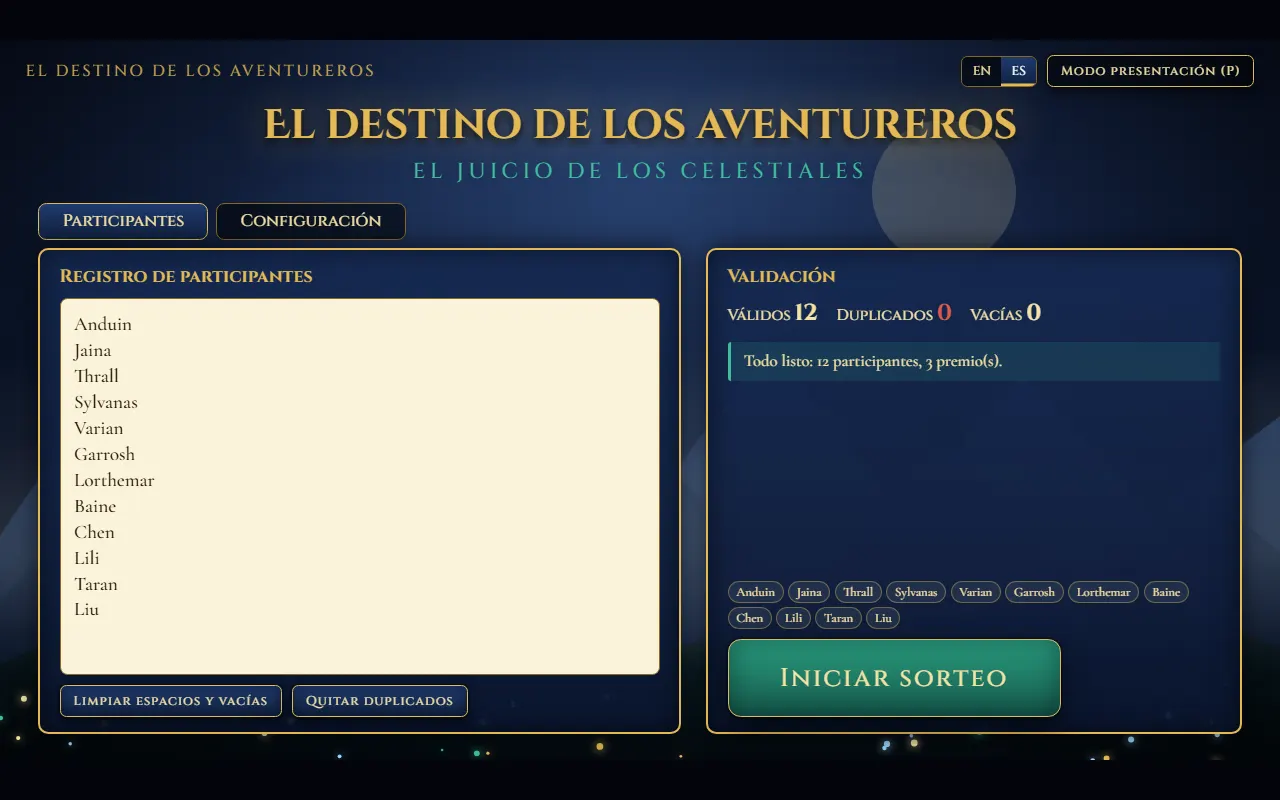
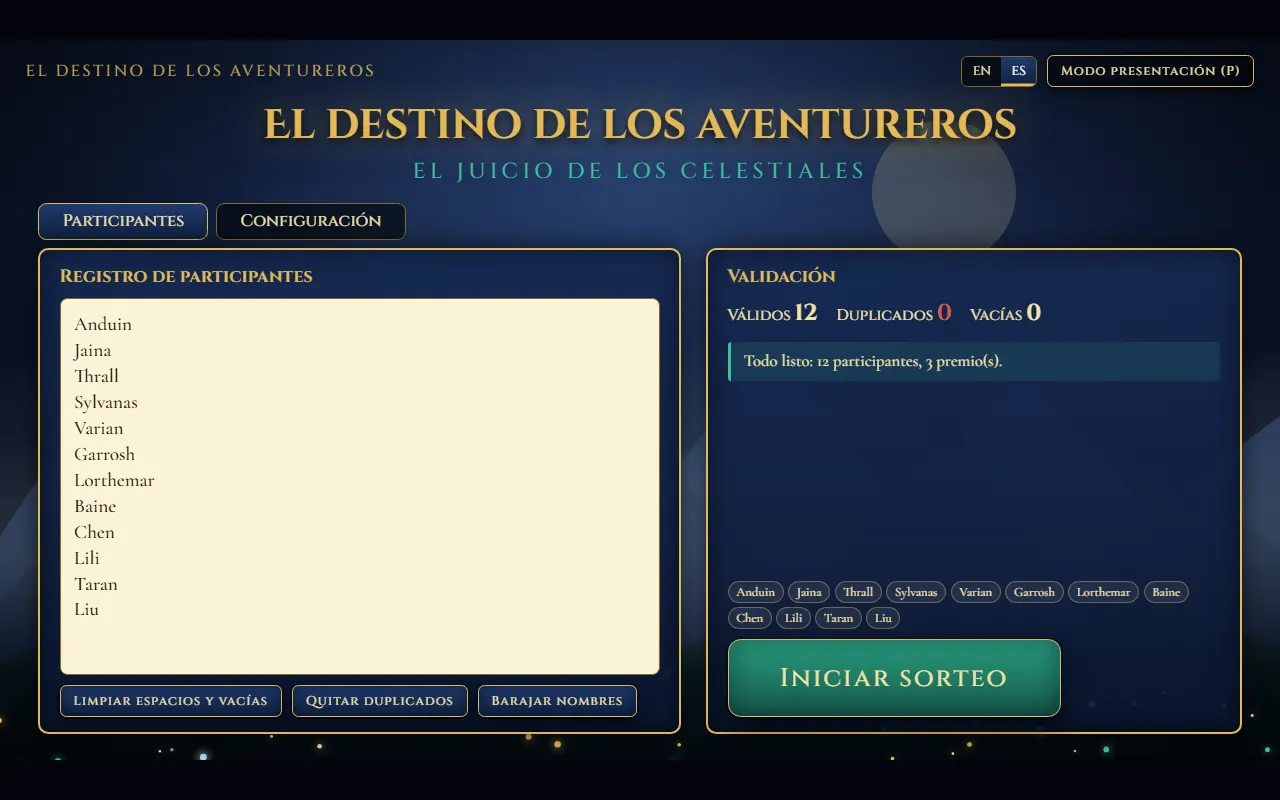
feat: add a Shuffle names button to the participants panel
Randomly reorders the textarea list with the secure shuffle (same one
the engine applies at start). New i18n keys in both locales; the
participants screenshots are retaken.

Changed region(s): [[0.375, 0.8438, 0.5, 0.9375], [0.6875, 0.9062, 0.7188, 0.9375]]

diff --git a/index.html b/index.html
@@ -331,6 +331,7 @@ body.pres .ops,body.pres .topbar .ctl{display:none}
         <div class="row">
           <button class="btn small" id="btnClean" data-i18n="admin.people.clean">Trim spaces and empty lines</button>
           <button class="btn small" id="btnDedupe" data-i18n="admin.people.dedupe">Remove duplicates</button>
+          <button class="btn small" id="btnShuffle" data-i18n="admin.people.shuffle" data-i18n-attr="title:admin.people.shuffleHint" title="Randomly reorders the list (the draw shuffles it again when it starts)">Shuffle names</button>
         </div>
         <div class="tw">
           <div class="tw-state"><span class="dot" id="twDotA"></span><span id="twTextA">Twitch: …</span></div>
@@ -801,6 +802,7 @@ function renderAdmin(){
 function renderCfgIfVisible(){ if (!$('paneC').classList.contains('hide')) renderCfg(); else { const c = analyze().valid.length; cfgCheck = Core.validateConfig(cfgDraft, c > 0 ? c : undefined); } }
 namesEl.addEventListener('input', () => { serverErr = null; renderAdmin(); });
 $('btnClean').onclick = () => { namesEl.value = namesEl.value.split(/\r?\n/).map(cleanLine).filter(Boolean).join('\n'); renderAdmin(); };
+$('btnShuffle').onclick = () => { namesEl.value = Core.secureShuffle(namesEl.value.split(/\r?\n/).map(cleanLine).filter(Boolean)).join('\n'); renderAdmin(); };
 $('btnDedupe').onclick = () => {
   const seen = new Set(), out = [];
   namesEl.value.split(/\r?\n/).map(cleanLine).filter(Boolean).forEach(n => { const k = normKey(n); if (!seen.has(k)){ seen.add(k); out.push(n); } });

diff --git a/locales/es.js b/locales/es.js
@@ -24,6 +24,8 @@
         placeholder: 'Pega aquí los nombres, uno por línea…',
         clean: 'Limpiar espacios y vacías',
         dedupe: 'Quitar duplicados',
+        shuffle: 'Barajar nombres',
+        shuffleHint: 'Reordena la lista al azar (al iniciar, el sorteo la vuelve a barajar)',
         twitchNote: 'Los nombres de la lista deben ser usuarios de Twitch.',
       },
       validation: { heading: 'Validación', valid: 'Válidos', dup: 'Duplicados', empty: 'Vacías' },

diff --git a/locales/en.js b/locales/en.js
@@ -24,6 +24,8 @@
         placeholder: 'Paste the names here, one per line…',
         clean: 'Trim spaces and empty lines',
         dedupe: 'Remove duplicates',
+        shuffle: 'Shuffle names',
+        shuffleHint: 'Randomly reorders the list (the draw shuffles it again when it starts)',
         twitchNote: 'The names in the list must be Twitch users.',
       },
       validation: { heading: 'Validation', valid: 'Valid', dup: 'Duplicates', empty: 'Empty' },

diff --git a/README.es.md b/README.es.md
@@ -16,7 +16,7 @@ Los pantallazos usan nombres de participantes ficticios y tiempos cortos (4–14
 
 ![Pestaña Participantes, vacía](docs/img/es/01-participants-empty.webp)
 
-**2. Pega los participantes**, uno por línea. El panel cuenta las líneas válidas, duplicadas y vacías (*Quitar duplicados* y *Limpiar espacios* las arreglan) y avisa cuando todo está listo.
+**2. Pega los participantes**, uno por línea. El panel cuenta las líneas válidas, duplicadas y vacías (*Quitar duplicados* y *Limpiar espacios* las arreglan) y avisa cuando todo está listo. El botón **Barajar nombres** reordena la lista al azar (al iniciar, el sorteo la vuelve a barajar).
 
 ![Participantes pegados y validados](docs/img/es/02-participants.webp)
 

diff --git a/README.md b/README.md
@@ -16,7 +16,7 @@ The screenshots use fictional participant names and short timings (4–14 s) so 
 
 ![Participants tab, empty](docs/img/en/01-participants-empty.webp)
 
-**2. Paste the participants**, one per line. The panel counts valid, duplicate and empty lines (*Remove duplicates* and *Trim spaces* clean them up) and tells you when everything is ready.
+**2. Paste the participants**, one per line. The panel counts valid, duplicate and empty lines (*Remove duplicates* and *Trim spaces* clean them up) and tells you when everything is ready. The **Shuffle names** button reorders the list at random (the draw shuffles it again when it starts).
 
 ![Participants pasted and validated](docs/img/en/02-participants.webp)
 
